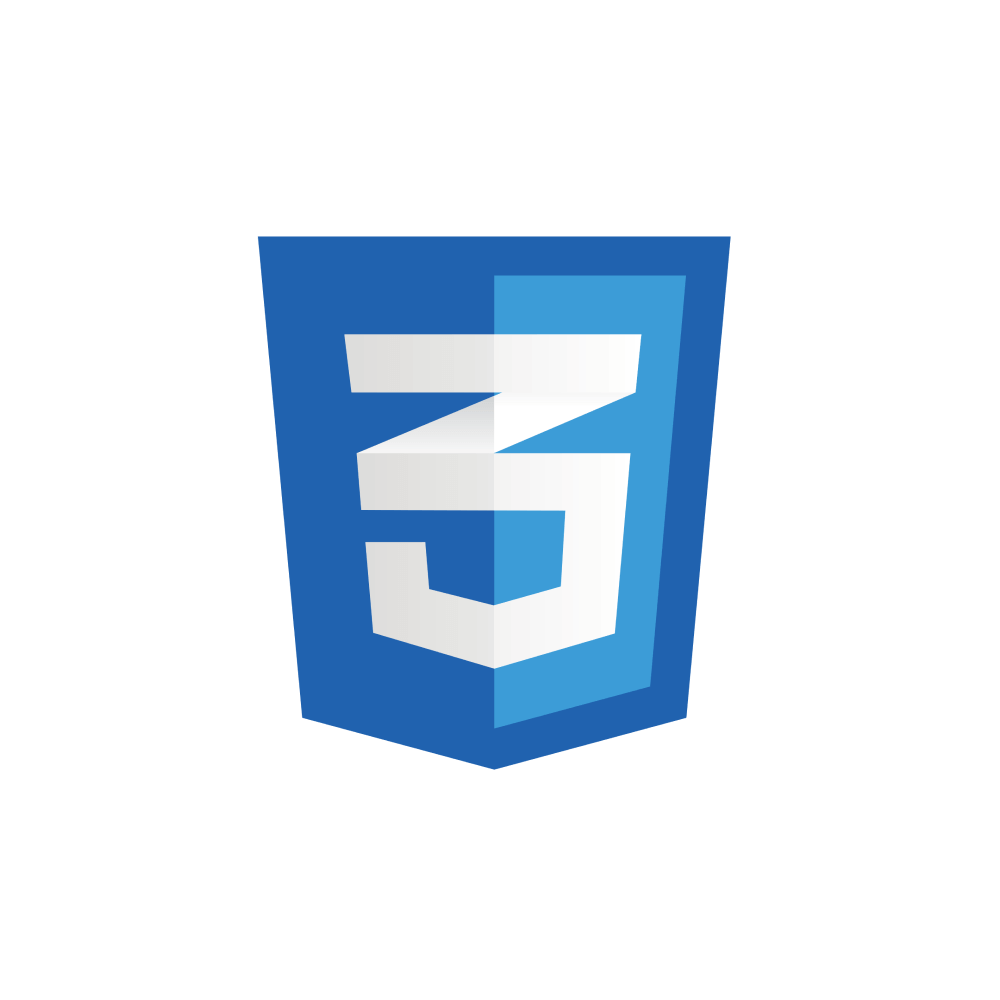
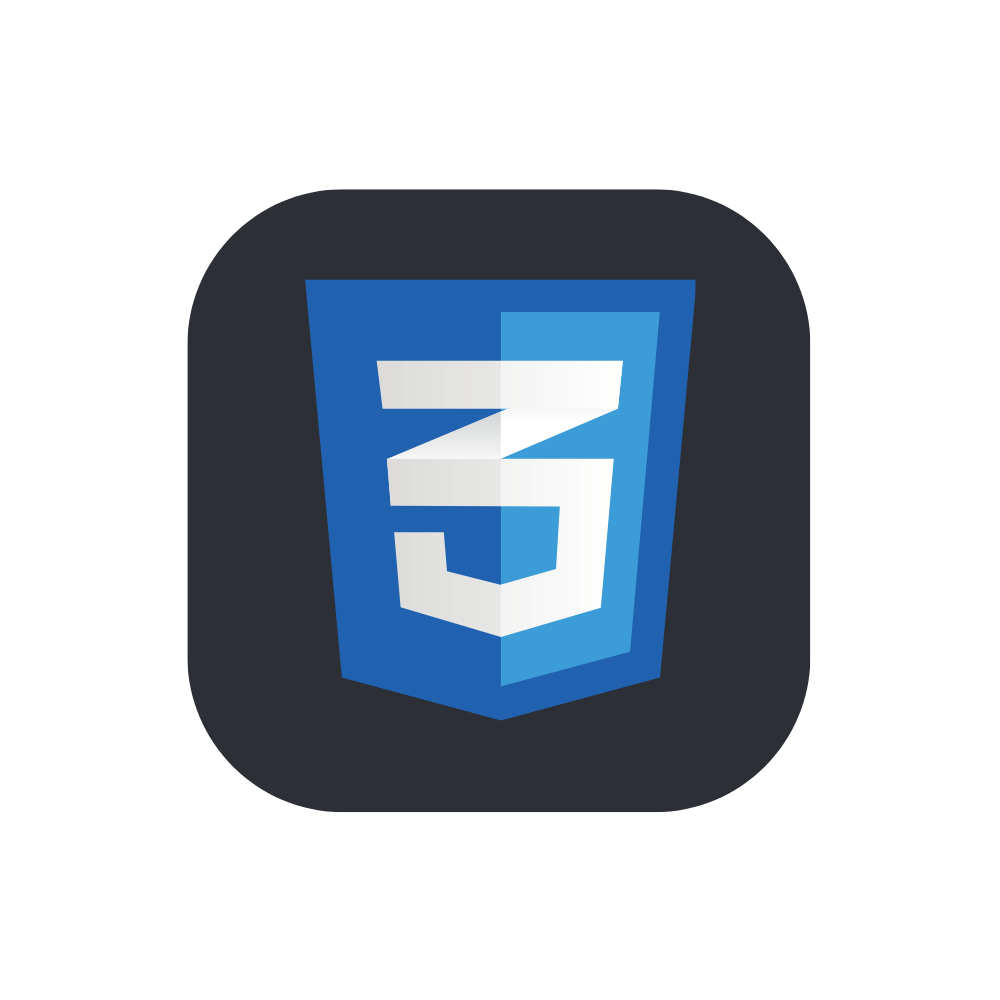
skills modified with different bg

Changed region(s): [[0.186, 0.186, 0.837, 0.837]]

diff --git a/app/components/Skills.tsx b/app/components/Skills.tsx
@@ -11,9 +11,9 @@ const skillsData = [
   { src: "/tailwind.png", alt: "Tailwind", text: "Tailwind" },
   { src: "/bootstrap.png", alt: "Bootstrap", text: "Bootstrap" },
   { src: "/mongo.png", alt: "MongoDB", text: "MongoDB" },
-  { src: "/github.png", alt: "GitHub", text: "GitHub" },
+  { src: "/git.png", alt: "GitHub", text: "GitHub" },
   { src: "/figma.png", alt: "Figma", text: "Figma" },
-  { src: "/wordpress.png", alt: "WordPress", text: "WordPress" },
+  { src: "/mui.png", alt: "mui", text: "MUI" },
 ];
 
 const Skills = () => {
@@ -28,7 +28,7 @@ const Skills = () => {
               key={index}
               className="mx-auto w-auto justify-center align-middle text-center rounded-xl shadow-lg dark:shadow-md dark:shadow-cyan-800 "
             >
-              <Image src={skill.src} width={90} height={90} alt={skill.alt} />
+              <Image src={skill.src} width={120} height={120} alt={skill.alt} />
               <h3 className="font-bold text-sm ">{skill.text}</h3>
             </div>
           ))}
